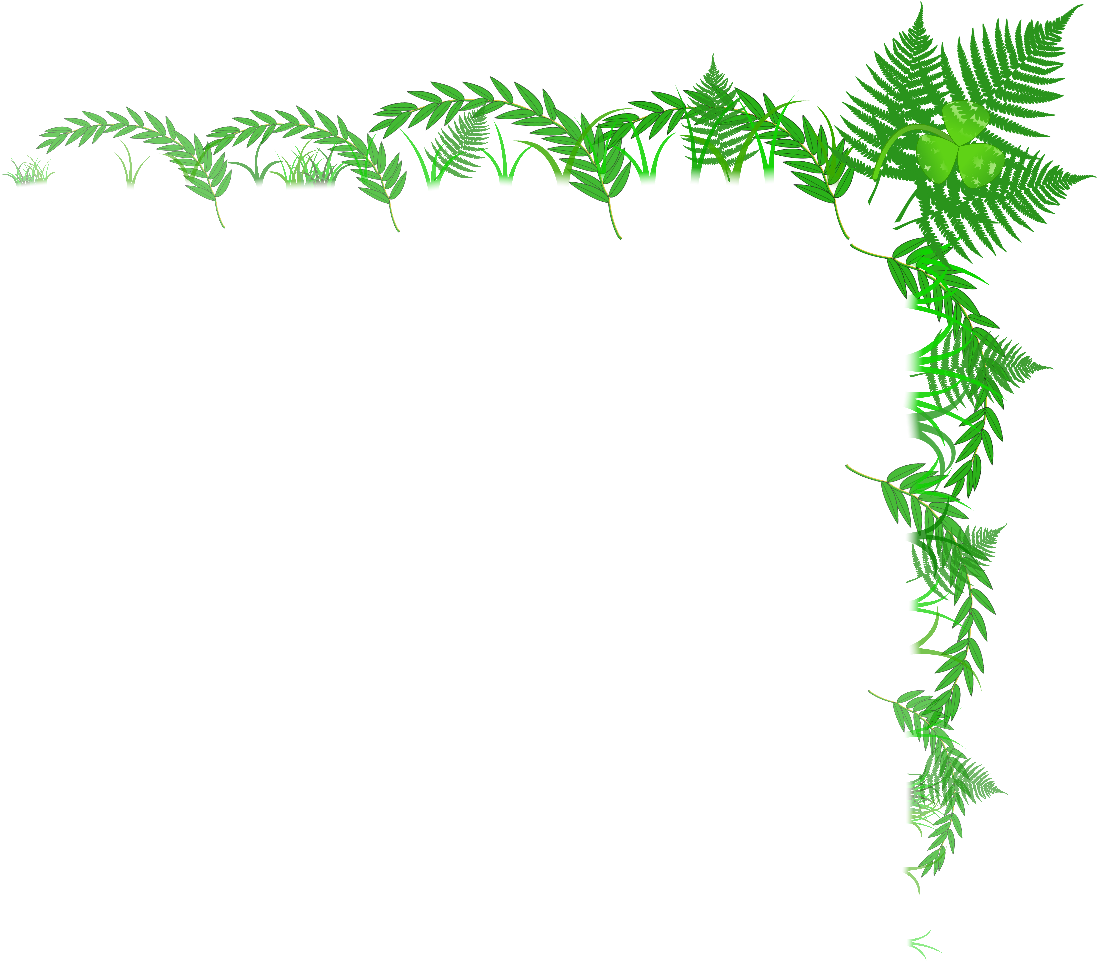
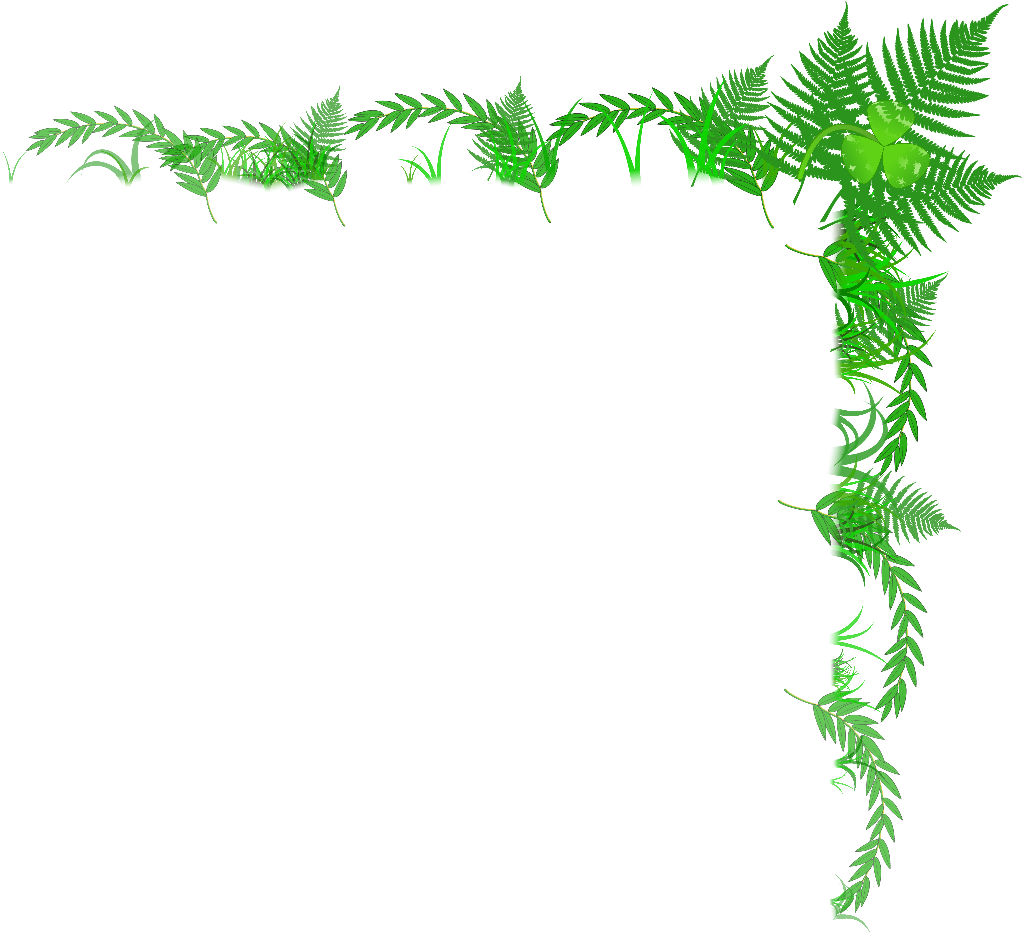
自然绿主题窗口点缀上边的小草改为自然生长：一丛丛一到四棵、高矮不一，丛间距忽疏忽密、偶尔空出一段，同一丛顺着微风轻轻歪向一边；后面的绿枝和蕨叶间隔也打散，不再等距排列

Changed region(s): [[0.0, 0.0, 1.0, 0.9946]]

diff --git a/dstools/qt/ornaments.py b/dstools/qt/ornaments.py
@@ -54,13 +54,13 @@ _SPRITES: dict[str, tuple[Sprite, ...]] = {
     ),
     "mint": (
         # 自然绿：从左上角沿上边框向右、沿左边框向下各一条枝叶带，后面是叶子朝外的绿枝，中间探出蕨叶，
-        # 最前面贴边一行小草往窗外长，越远越矮越稀越淡
-        Sprite("mint_spray_right.png", 0, 0, 260.5, -9, 64),
-        Sprite("mint_spray_down.png", 0, 0, -12, 214.5, 407),
+        # 最前面贴边一溜小草一丛丛自然生长、疏密随机，越远越矮越稀越淡
+        Sprite("mint_spray_right.png", 0, 0, 259, -11.5, 65),
+        Sprite("mint_spray_down.png", 0, 0, -15, 217.5, 445),
         # 左上主角：几片蕨叶从拐角放射，两根绿枝顺着上边、左边伸出，拐角上三叶草和一丛小草，后创建的小窗叠在两条带上面
         Sprite("mint_cluster.png", 0, 0, 18, 19, 182),
         # 右上呼应：沿上边往左、沿右边往下各一条短些的枝叶带，拐角几片蕨叶和一棵三叶草
-        Sprite("mint_spray_corner.png", 1, 0, -118, 97.5, 321),
+        Sprite("mint_spray_corner.png", 1, 0, -105.5, 92.5, 311),
         # 右下角：一片草丛压在拐角，小草沿下边缘往左越来越矮越稀，蕨叶贴着右边往上伸，三叶草藏在草里；左下角留白
         Sprite("mint_spray_bottom.png", 1, 1, -213, -57.5, 121),
     ),
